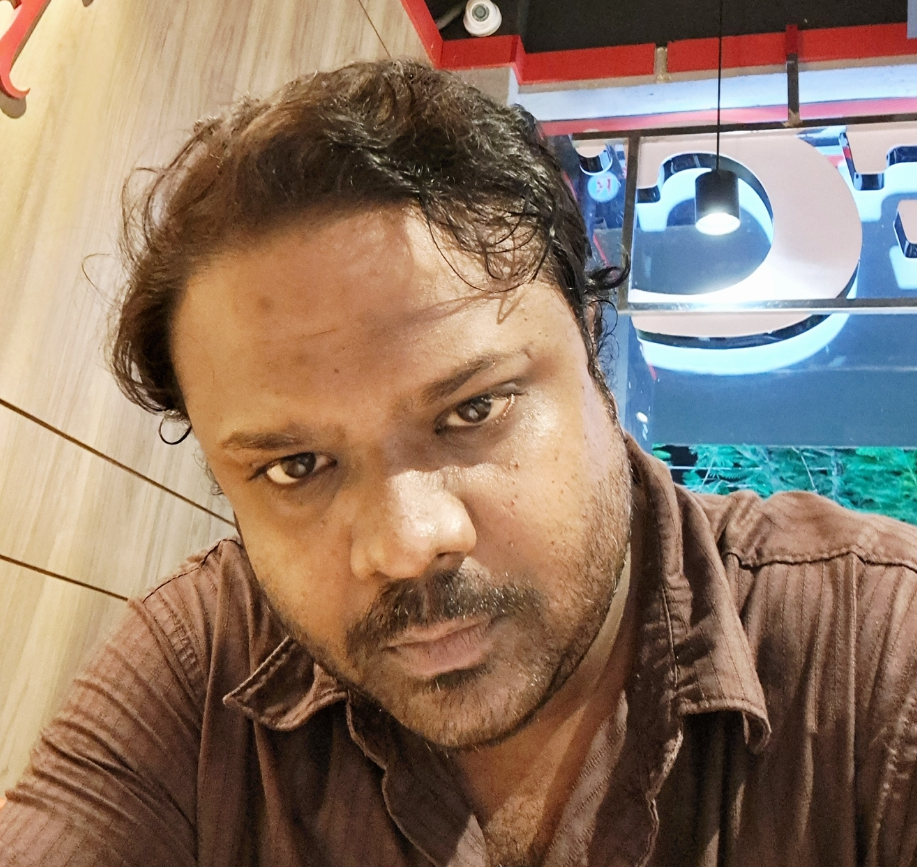
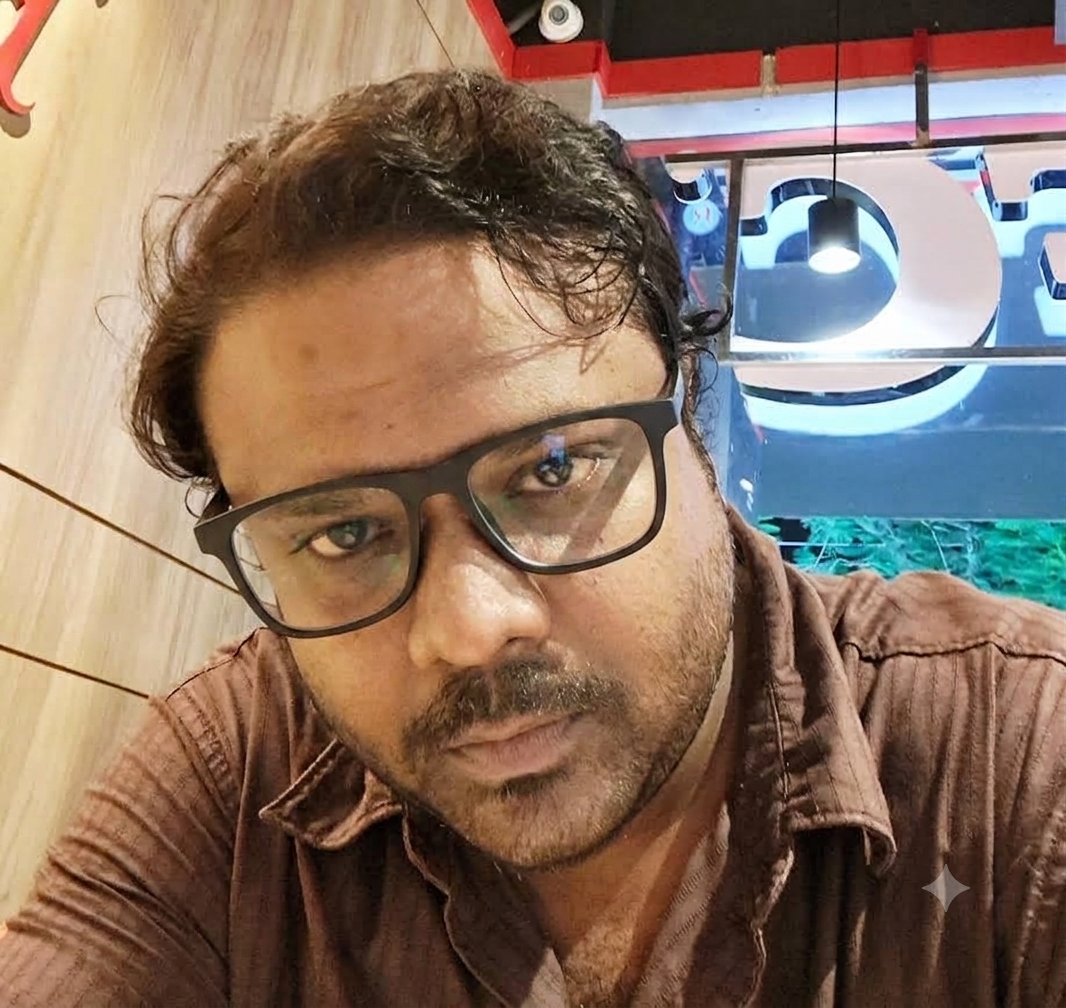
Update

diff --git a/src/index.css b/src/index.css
@@ -579,7 +579,7 @@ span {
 }
 
 .banner-container {
-  background-image: url("/abh-banner-2.png");
+  background-image: url("/abhi-banner-3.png");
   background-size: contain;
   background-position: center;
   background-repeat: no-repeat;
@@ -3149,7 +3149,7 @@ ul {
 
 @media (min-width: 769px) {
   .banner-container {
-    background-image: url("/abh-banner-2.png");
+    background-image: url("/abhi-banner-3.png");
     background-size: contain;
     background-position: center;
     background-repeat: no-repeat;
